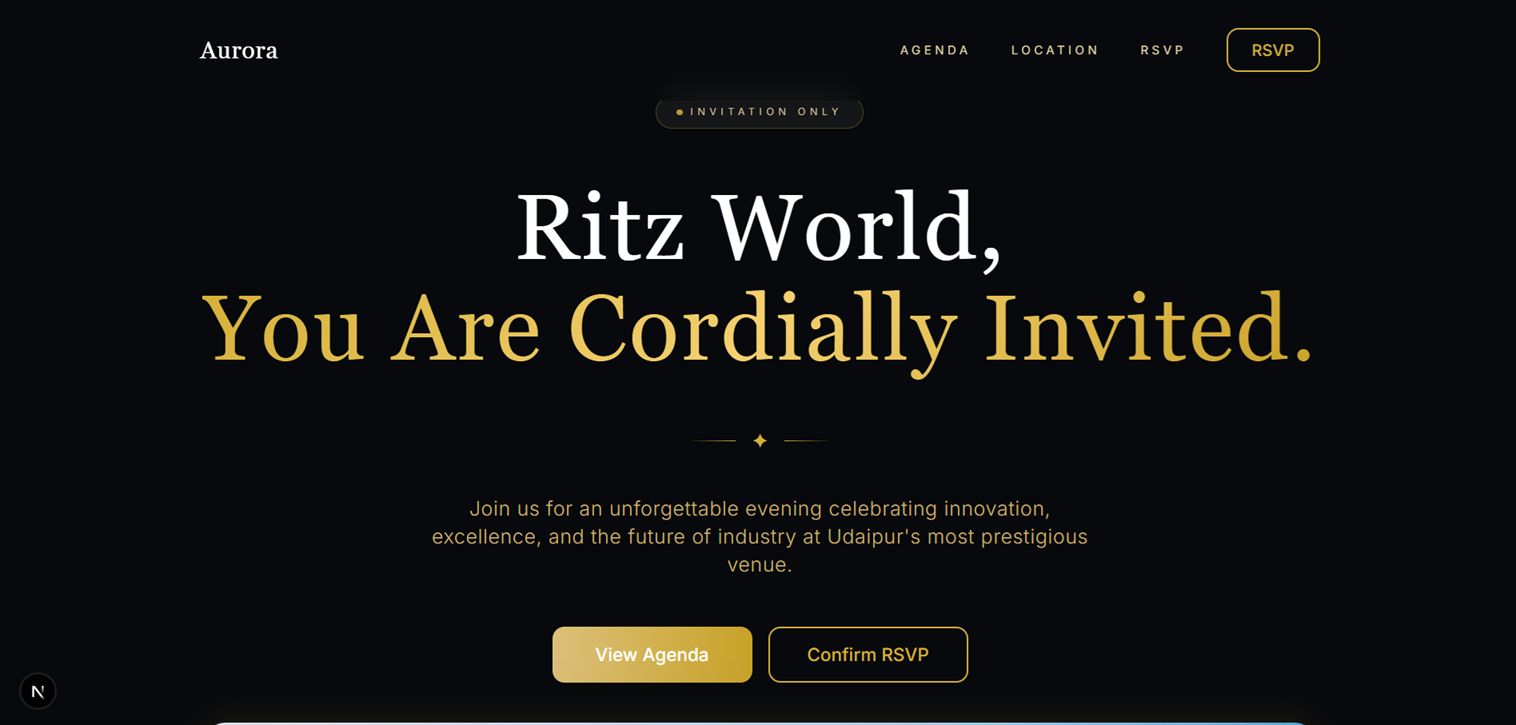
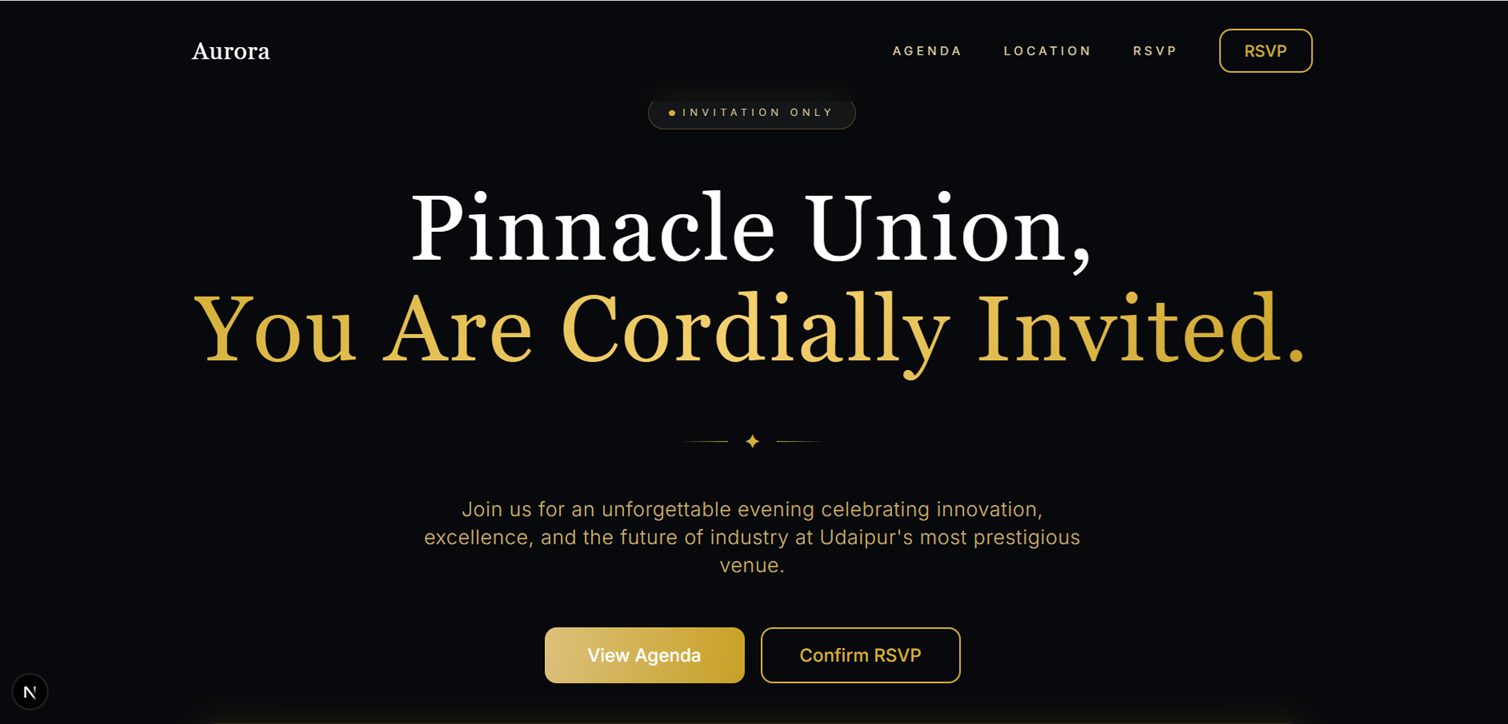
initial commit

diff --git a/src/components/rsvp/RSVPSection.tsx b/src/components/rsvp/RSVPSection.tsx
@@ -21,15 +21,6 @@ const ENTRY_IDS = {
   dietary: "entry.1308839523",
 };
 
-const DIETARY_OPTIONS = [
-  "Vegetarian",
-  "Non-Vegetarian",
-  "Vegan",
-  "Jain",
-  "No Preference",
-  "Other",
-];
-
 export default function RSVPSection() {
   const { companyName } = useCompany();
   const [status, setStatus] = useState<"idle" | "submitting" | "success" | "error">("idle");
@@ -40,12 +31,16 @@ export default function RSVPSection() {
     dietary: "Vegetarian",
   });
 
+  const update = (key: string, value: string) => {
+    setFormData((prev) => ({ ...prev, [key]: value }));
+  };
+
   const handleSubmit = async (e: React.FormEvent) => {
     e.preventDefault();
     setStatus("submitting");
 
     const params = new URLSearchParams();
-    params.append(ENTRY_IDS.name, formData.name);
+    params.append(ENTRY_IDS.name, formData.name.trim());
     params.append(ENTRY_IDS.rsvp, formData.rsvp);
     params.append(ENTRY_IDS.guests, formData.guests);
     params.append(ENTRY_IDS.dietary, formData.dietary);
@@ -135,26 +130,34 @@ export default function RSVPSection() {
                   type="text"
                   required
                   value={formData.name}
-                  onChange={(e) => setFormData({ ...formData, name: e.target.value })}
+                  onChange={(e) => update("name", e.target.value)}
                   className="luxury-input-base"
                   placeholder="Your name"
                 />
               </div>
 
               <div>
-                <label htmlFor="rsvp-choice" className="block text-[10px] uppercase tracking-[0.35em] text-[#E8D7A5] mb-2">
-                  Will you be attending? <span className="text-[#D4AF37]">*</span>
-                </label>
-                <select
-                  id="rsvp-choice"
-                  value={formData.rsvp}
-                  onChange={(e) => setFormData({ ...formData, rsvp: e.target.value })}
-                  className="luxury-input-base bg-white appearance-none cursor-pointer"
-                  required
-                >
-                  <option value="Yes">I will be joining you</option>
-                  <option value="No">I won't be able to attend</option>
-                </select>
+                <span className="block text-[10px] uppercase tracking-[0.35em] text-[#E8D7A5] mb-2">
+                  Will you be joining us? <span className="text-[#D4AF37]">*</span>
+                </span>
+                <div className="mt-2 space-y-2">
+                  {["Yes", "No"].map((option) => (
+                    <label key={option} className="flex items-center gap-3 cursor-pointer">
+                      <input
+                        type="radio"
+                        name="rsvp"
+                        value={option}
+                        checked={formData.rsvp === option}
+                        onChange={(e) => update("rsvp", e.target.value)}
+                        className="h-4 w-4 accent-[#D4AF37]"
+                        required
+                      />
+                      <span className="text-sm text-white">
+                        {option === "Yes" ? "I will be joining you" : "I won't be joining you"}
+                      </span>
+                    </label>
+                  ))}
+                </div>
               </div>
 
               <div>
@@ -164,48 +167,36 @@ export default function RSVPSection() {
                 <select
                   id="rsvp-guests"
                   value={formData.guests}
-                  onChange={(e) => setFormData({ ...formData, guests: e.target.value })}
+                  onChange={(e) => update("guests", e.target.value)}
                   className="luxury-input-base bg-white appearance-none cursor-pointer"
                 >
                   <option value="1">1 Guest</option>
                   <option value="2">2 Guests</option>
                   <option value="3">3 Guests</option>
                   <option value="4">4 Guests</option>
-                  <option value="5">5 Guests</option>
                 </select>
               </div>
 
               <div>
-                <label htmlFor="rsvp-dietary" className="block text-[10px] uppercase tracking-[0.35em] text-[#E8D7A5] mb-2">
-                  Dietary Preference
-                </label>
-                <select
-                  id="rsvp-dietary"
-                  value={formData.dietary}
-                  onChange={(e) => setFormData({ ...formData, dietary: e.target.value })}
-                  className="luxury-input-base bg-white appearance-none cursor-pointer"
-                >
-                  <option value="Vegetarian">Vegetarian</option>
-                  <option value="Non-Vegetarian">Non-Vegetarian</option>
-                  <option value="Vegan">Vegan</option>
-                  <option value="Jain">Jain</option>
-                  <option value="No Preference">No Preference</option>
-                  <option value="Other">Other</option>
-                </select>
-              </div>
-
-              <div>
-                <label htmlFor="rsvp-message" className="block text-[10px] uppercase tracking-[0.35em] text-[#E8D7A5] mb-2">
-                  Optional Message
-                </label>
-                <textarea
-                  id="rsvp-message"
-                  rows={4}
-                  value={formData.message}
-                  onChange={(e) => setFormData({ ...formData, message: e.target.value })}
-                  className="luxury-input-base resize-none"
-                  placeholder="A message for the hosts..."
-                />
+                <span className="block text-[10px] uppercase tracking-[0.35em] text-[#E8D7A5] mb-2">
+                  Dietary Preference <span className="text-[#D4AF37]">*</span>
+                </span>
+                <div className="mt-2 space-y-2">
+                  {["Vegetarian", "Non-veg", "Vegan"].map((option) => (
+                    <label key={option} className="flex items-center gap-3 cursor-pointer">
+                      <input
+                        type="radio"
+                        name="dietary"
+                        value={option}
+                        checked={formData.dietary === option}
+                        onChange={(e) => update("dietary", e.target.value)}
+                        className="h-4 w-4 accent-[#D4AF37]"
+                        required
+                      />
+                      <span className="text-sm text-white">{option}</span>
+                    </label>
+                  ))}
+                </div>
               </div>
 
               <div className="pt-4 text-center">

diff --git a/README.md b/README.md
@@ -166,13 +166,13 @@ Through this project, I improved my understanding of:
 
 # Screenshots
 
-## Homepage
-
-![Homepage](public/images/home-page.png)
-
 ## Popup Design
 
 ![Event-Pop-Up](public/images/event-pop-up.png)
+
+## Homepage
+
+![Homepage](public/images/home-page.png)
 
 ## Registration Form
 